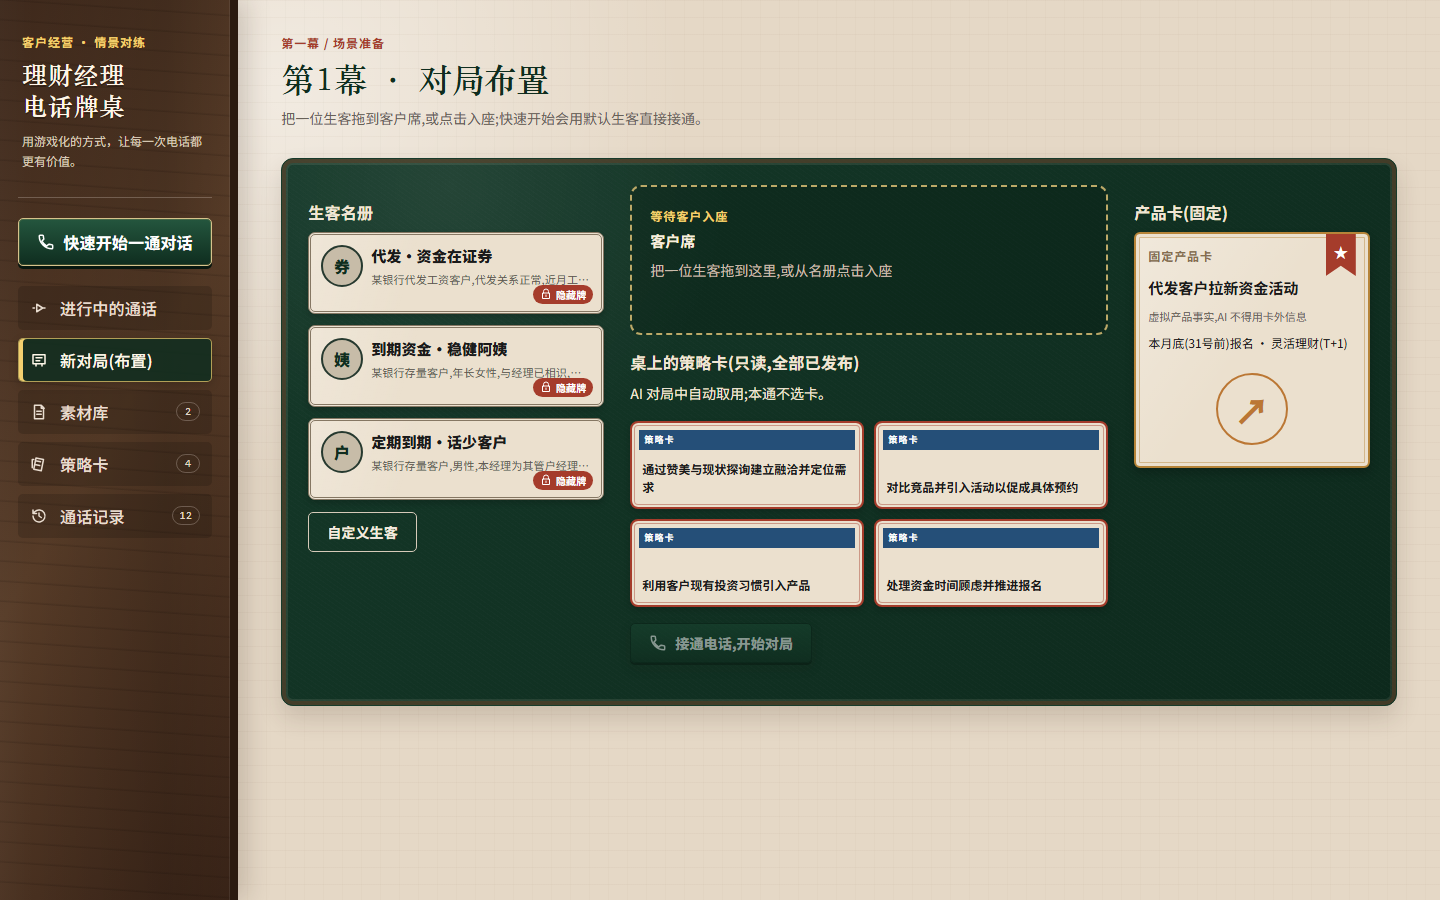
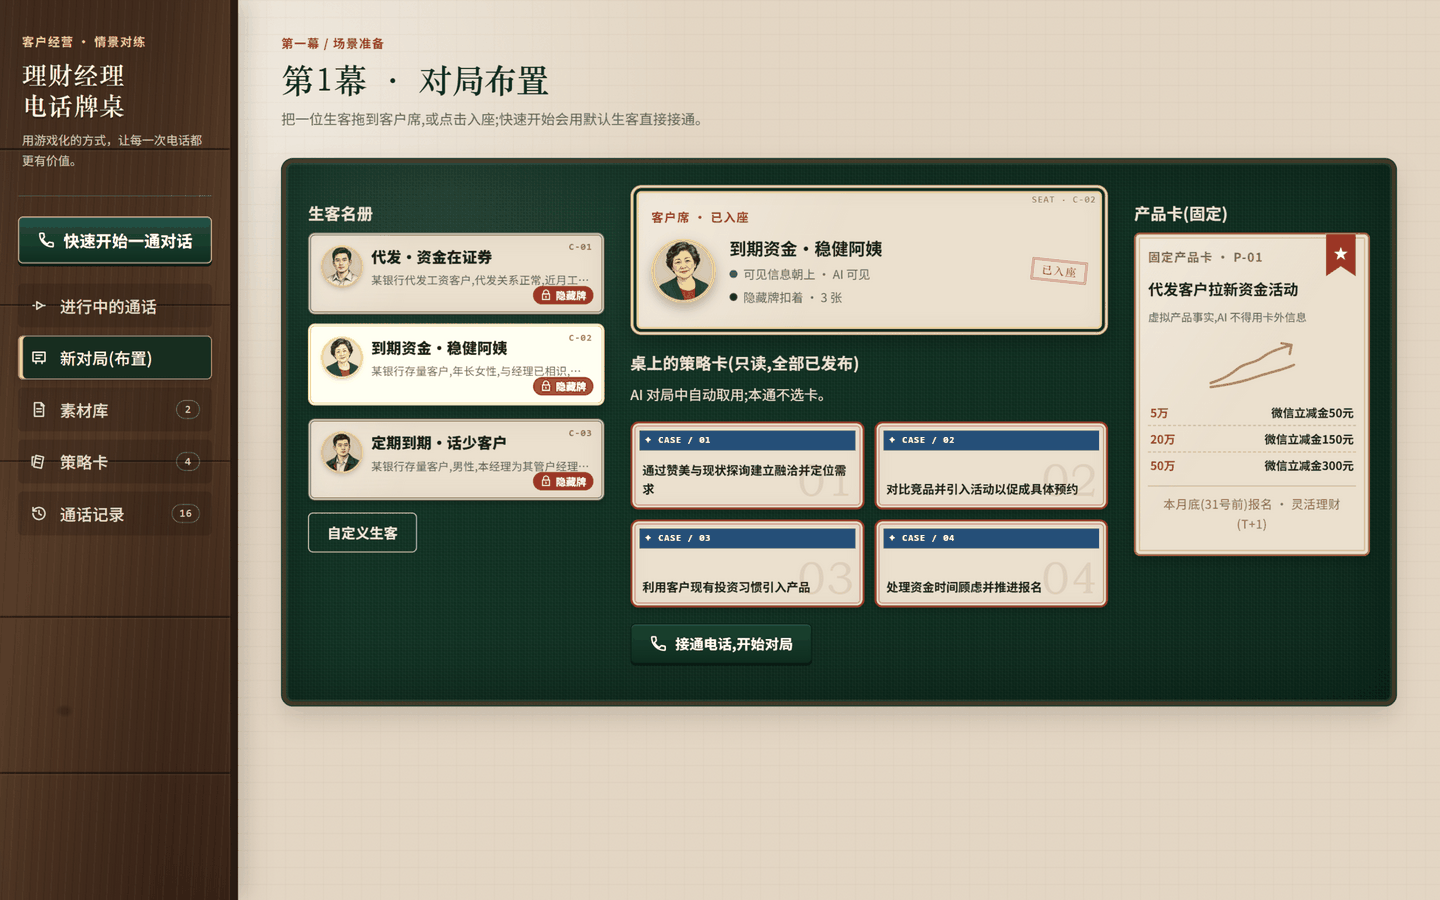
docs: 项目介绍补策略提取流水线说明,全页面截图更新至最新美术版

diff --git a/README.md b/README.md
@@ -24,14 +24,21 @@
 
 结算页不只给结果，还会翻开本局的策略路径：哪一轮用了哪张卡、它来自哪段优秀通话、对客户产生了什么影响。复盘之后，可以回到布置幕再来一局。
 
+![电话对练复盘页实机界面](docs/ui-postgame.png)
+
 > 🎮 完整玩法以交互式 **[游戏手册](docs/game-manual.html)** 为准：开局准备 → 正式对局 → 结算复盘的流程图，标注了回合规则、隐藏信息隔离与「再来一局」循环，支持明暗主题与演示模式，用浏览器打开即可。
 
 ## 你的牌库从哪里来
 
-- **优秀录音是素材**：后台把录音整理成带说话人轮次的待校对稿。
-- **真实经验变成策略卡**：从通话里提炼开场、探询、推进与收口等可复用动作。
-- **人工决定什么可以上桌**：策略卡经过编辑和确认后才会发布，不让模型擅自改写团队方法。
-- **每局都会留下战报**：策略卡与原始文字片段相连，方便回看和继续打磨。
+策略卡不是人工凭空写的，也不是模型直接生成的——它从一段真实的优秀通话里**半自动提炼、人工确认**而来，共五步：
+
+1. **录音进后台**:`npm run audio:ingest` 把优秀通话录音转写成按说话人分好轮次的文字稿(谁说的、第几句)，生成一份待校对稿。先人工核对说话人并脱敏，才会进入下一步。
+2. **模型提炼素材**:转写稿交给素材库分析，模型输出结构化的案例分析(场景、客户状态、总目标、阶段拆解、可取与不可取之处)，并附 **1–3 张策略卡草稿**。每张卡自带:来源轮次区间(如 T04–T14)、触发信号、动作链、表达原则、参考话术和停止条件——卡和它出自的原话始终绑在一起。
+3. **人工决定什么可以上桌**:在素材库里纠正说话人、修改分析和卡面，逐张确认发布。草稿永远进不了对局，模型无权替团队发布方法。
+4. **对局中只认已发布卡**:AI 理财经理每一轮只看得到已发布的策略卡；它声称"本轮用了哪张卡"时，系统会校验这张卡确实在本轮的已发布集合内，对不上就不标注——策略引用不是模型说了算。
+5. **复盘逐轮回溯**:结算页把每轮用卡与关键话术列成策略路径，"回放原文"一键跳回对应的原始通话片段；素材若被删除，复盘会如实标注"原始片段未能定位"。
+
+![策略卡列表实机界面](docs/ui-cards.png)
 
 它不是一套让人照念的标准答案，而是一个低成本试错的练习场：同一套能力，放到不同客户身上会发生什么，只有真正打一局才知道。
 
